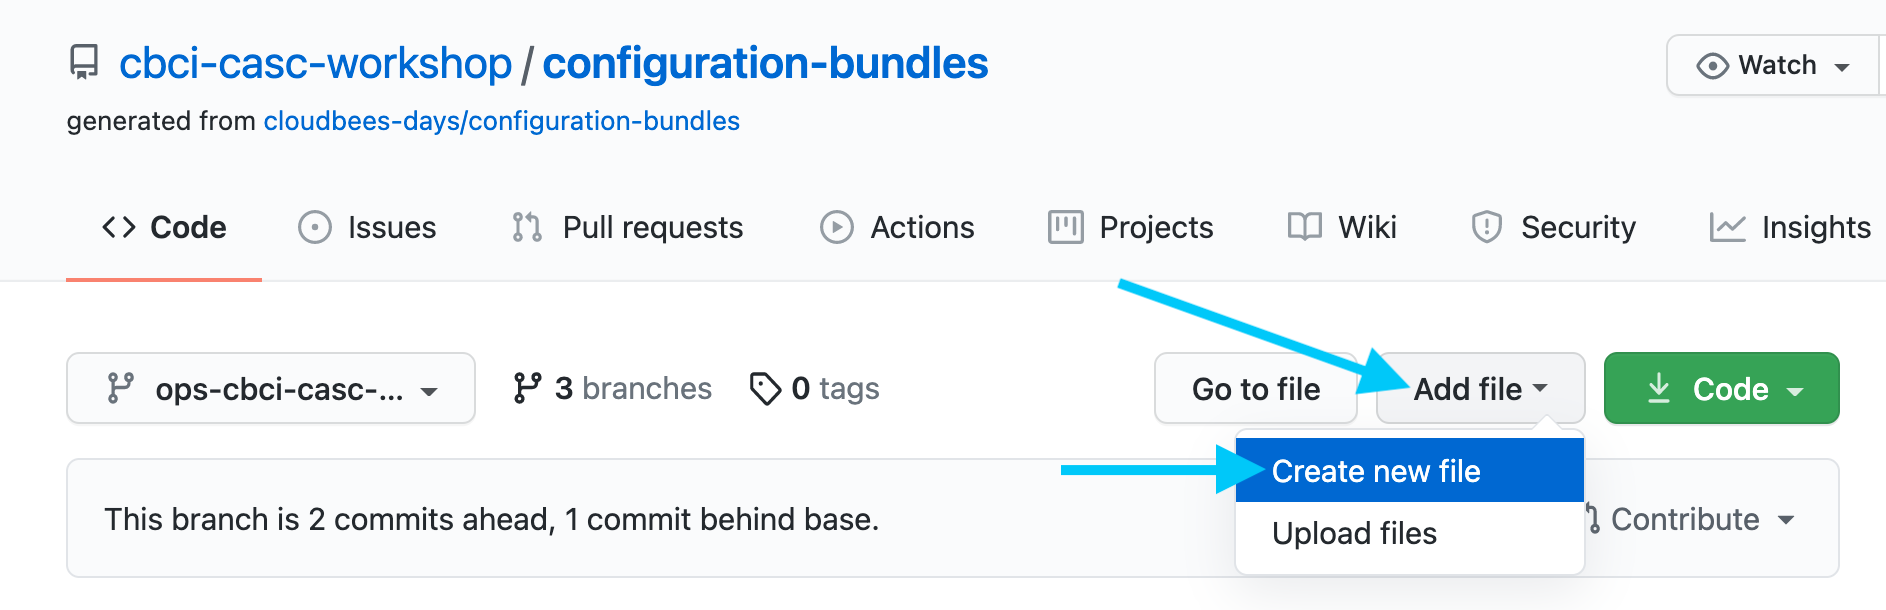
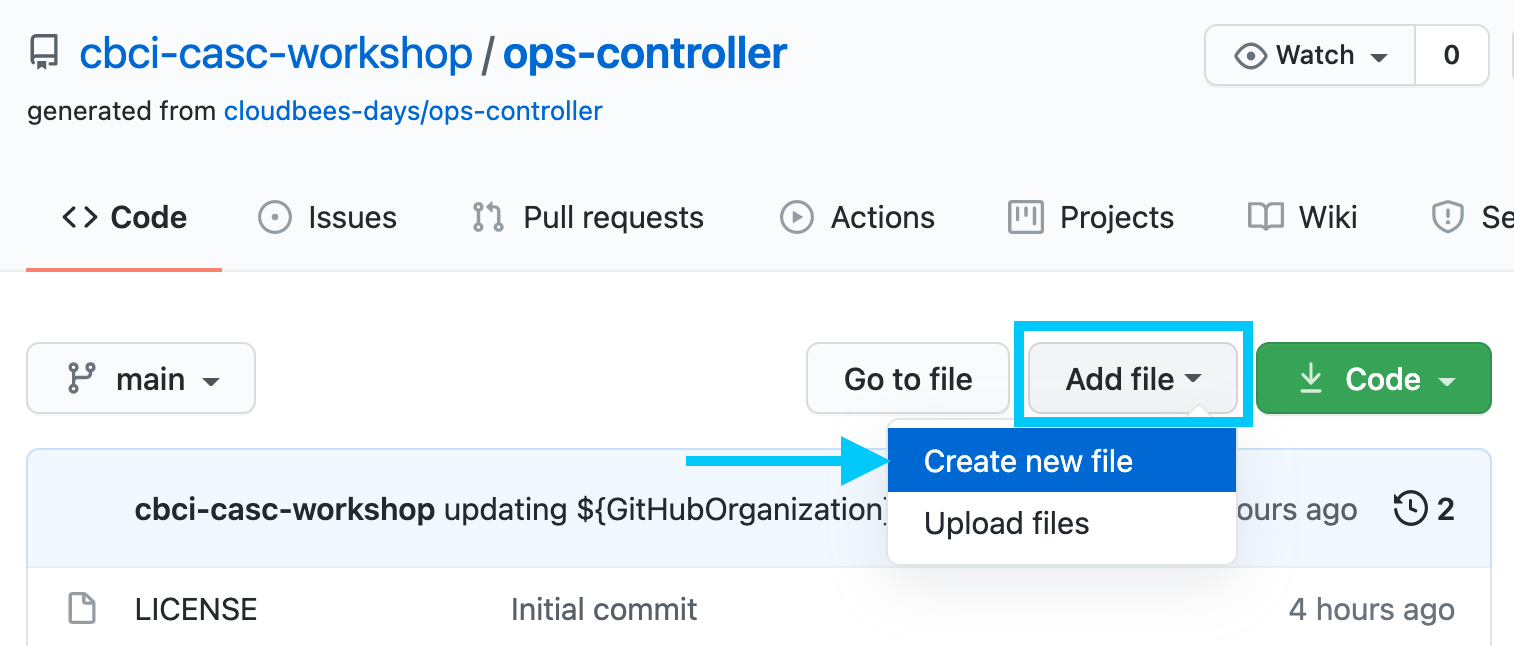
updated comp lab with repo vs branch changes

diff --git a/labs/cloudbees-ci-casc/content/labs/bundle-management.md b/labs/cloudbees-ci-casc/content/labs/bundle-management.md
@@ -11,20 +11,20 @@ CloudBees CI configuration bundles are centrally managed and stored in the `jcas
 The labs in this section will explore:
 
 - storing configuration bundles on Operations Center
-- setting a default bundle
+- setting a default configuration bundle
 - setting up GitOps for automating CloudBees CI configuration bundle updates
 
 ## Managing Configuration Bundles on Operations Center
 
 This lab will provide an overview of how configuration bundles are managed via the Operations Center UI and how to manually apply a configuration bundle to a controller. The first part of the overview will be on the Operations Center **Configuration as Code bundles** settings page that is only accessible by workshop instructors. Therefore the first part of this lab will explore the 3 major components on the Operations Center **Configuration as Code bundles** settings page without attendees following along.
 
-![Operations Center Configuration as Code bundles settings pag](ops-center-config-bundle-settings.png?width=50pc)
+![Operations Center Configuration as Code bundles settings pag](ops-center-config-bundle-settings.png?width=70pc)
 
 1. By checking the **Availability pattern** checkbox, any configuration bundle that has an empty **Availability pattern** can be used by any controller.
 2. The **Default bundle** drop-down allows you to automatically apply a default configuration bundle to any controller that does not specify a different configuration bundle. However, the **Availability pattern** checkbox must be checked for this feature to work.
 3. The configuration bundle **Availability pattern** allows assigning regular expressions that must match the full path to one or more controllers in order to use that bundle. For the `base` bundle the **Availability pattern** is empty and this typically would not match any path, but since the **Availability pattern** checkbox is checked it is available to all controllers.
 4. For the `ops` bundle the **Availability pattern** is set to `operations/ops` so that means only a controller with the name **ops** in the **operations** folder can use this bundle. If the **Availability pattern** were set to `operations/*` then any controller in the **operations** folder could use this bundle.
-5. To actually apply a bundle to a controller you must select the bundle from the **Bundle** drop-down on the controller configuration page. To do this navigate to the top level of Operations Center and click on the **Manage** icon for your Ops controller. ![Manage controller link](manage-controller-link.png?width=50pc)
+5. To actually apply a bundle to a controller you must select the bundle from the **Bundle** drop-down on the controller configuration page. To do this navigate to the top level of Operations Center and click on the **Manage** icon for your Ops controller. ![Manage controller link](manage-controller-link.png?width=60pc)
 6. On the controller manage screen click on the **Configure** link in the left menu. ![Configure controller link](configure-controller-link.png?width=50pc)
 7. On the configure controller screen, scroll down to the **Configuration as Code (CasC)** section and expand the **Bundle** drop down. ![Bundle dropdown](bundle-dropdown.png?width=50pc)
 8. Note that the bundle matching the name of your Ops controller is selected and the `base` bundle is also available, but the `ops` bundle is not available to select. ![Bundle dropdown expanded](bundle-dropdown-expanded.png?width=50pc)
@@ -37,7 +37,7 @@ In this lab we will create a Jenkins Pipeline to automatically update our contro
 1. Navigate to the `ops-controller` repository in your workshop GitHub Organization.
 2. Next click on the **Add file** button and then select **Create new file**. ![Create new file in GitHub](github-create-new-file.png?width=50pc)
 3. On the next screen name the new file `Jenkinsfile` and enter the following contents:
-```yaml
+```groovy
 library 'pipeline-library'
 pipeline {
   agent {
@@ -52,13 +52,15 @@ pipeline {
     stage('Update Config Bundle') {
       when {
         beforeAgent true
+        branch 'main'
         not { triggeredBy 'UserIdCause' }
       }
       steps {
+        gitHubParseOriginUrl()
         container("kubectl") {
-          sh "mkdir -p ${BRANCH_NAME}"
-          sh "cp *.yaml ${BRANCH_NAME}"
-          sh "kubectl cp --namespace sda ${BRANCH_NAME} cjoc-0:/var/jenkins_home/jcasc-bundles-store/ -c jenkins"
+          sh "mkdir -p ${GITHUB_ORG}-${GITHUB_REPO}"
+          sh "cp *.yaml ${GITHUB_ORG}-${GITHUB_REPO}"
+          sh "kubectl cp --namespace sda ${GITHUB_ORG}-${GITHUB_REPO} cjoc-0:/var/jenkins_home/jcasc-bundles-store/ -c jenkins"
         }
       }
     }
